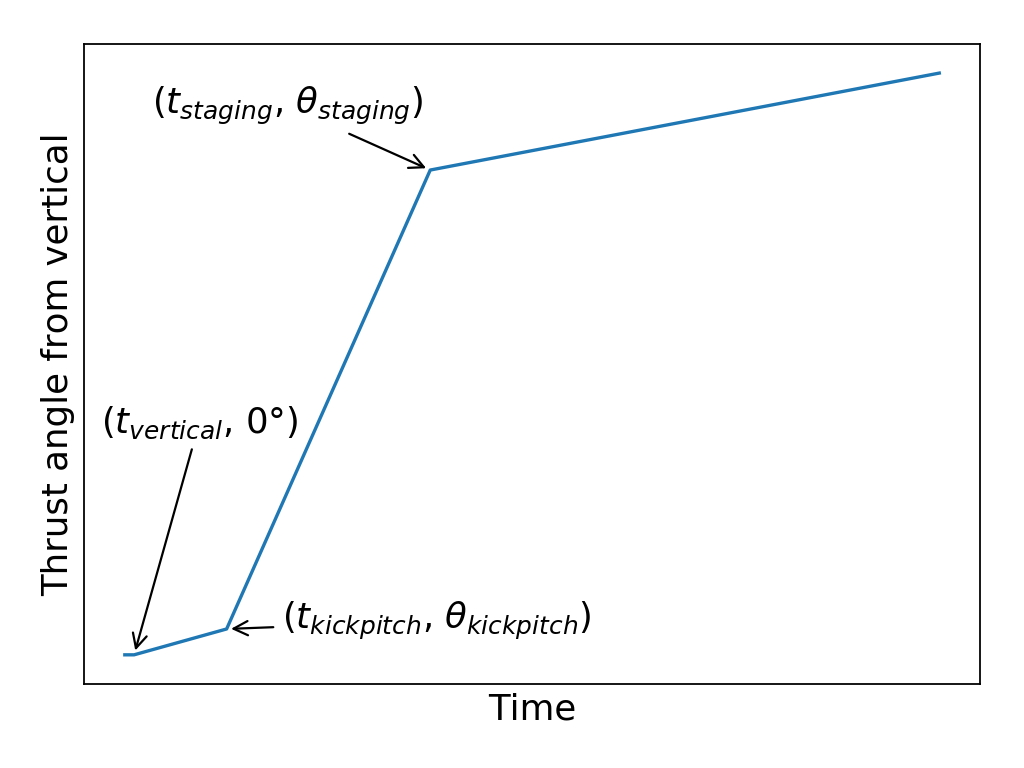
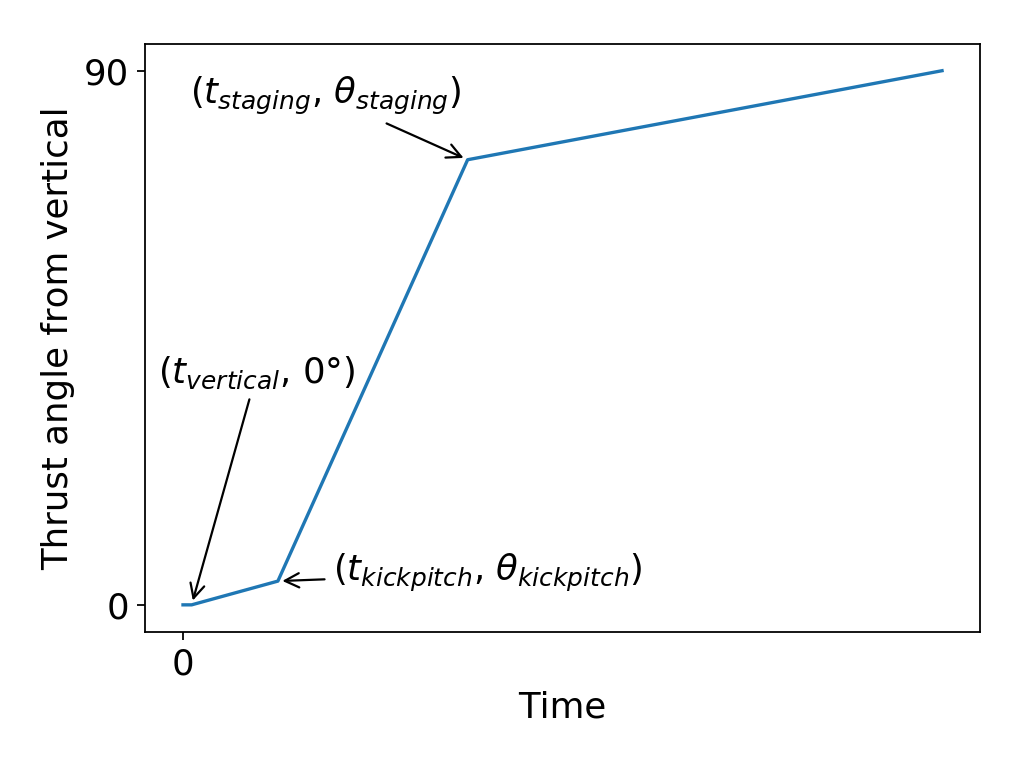
Plots

diff --git a/Report/plots/consumedToInitial.py b/Report/plots/consumedToInitial.py
@@ -1,0 +1,42 @@
+from matplotlib import pyplot as plt
+from matplotlib import rcParams
+import numpy as np
+
+rcParams.update({'font.size': 16})
+
+arrowprops = dict(arrowstyle="->")
+
+
+deltaVOverExhaust = np.linspace(0, 3, 500)
+
+massRatio = np.exp(deltaVOverExhaust)
+
+mFinal = 4000 + 10000 + 2000
+mInitial1 = massRatio * mFinal
+vExhaust = 3481
+initial = np.exp(-deltaVOverExhaust)
+plt.plot(deltaVOverExhaust*vExhaust, mInitial1)
+
+mFinal = 4000 + 10000
+mInitial2 = massRatio * mFinal
+vExhaust = 3481
+initial = np.exp(-deltaVOverExhaust)
+plt.plot(deltaVOverExhaust*vExhaust, mInitial2)
+
+plt.figlegend(('Final mass 16 tons', 'Final mass 14 tons'),
+              loc='upper left', bbox_to_anchor=(0.25, 0.9))
+
+plt.xlabel("$\\Delta v$ (m/s)")
+plt.ylabel("Initial mass (kg)")
+plt.yticks(np.linspace(0, 300000, 7))
+plt.tight_layout()
+plt.savefig("./consumedToInitial.png", dpi=160)
+
+plt.figure()
+plt.plot(deltaVOverExhaust*vExhaust, mInitial1 - mInitial2)
+
+plt.xlabel("$\\Delta v$ (m/s)")
+plt.ylabel("Mass difference (kg)")
+plt.tight_layout()
+
+plt.savefig("./consumedToInitial_diff.png", dpi=160)

diff --git a/Report/plots/ascent.py b/Report/plots/ascent.py
@@ -48,8 +48,8 @@ plt.annotate(
     textcoords='offset points',
     arrowprops=arrowprops
 )
-plt.xticks([])
-plt.yticks([])
+plt.xticks([0])
+plt.yticks([0, 90])
 plt.xlabel("Time")
 plt.ylabel("Thrust angle from vertical")
 plt.tight_layout()
